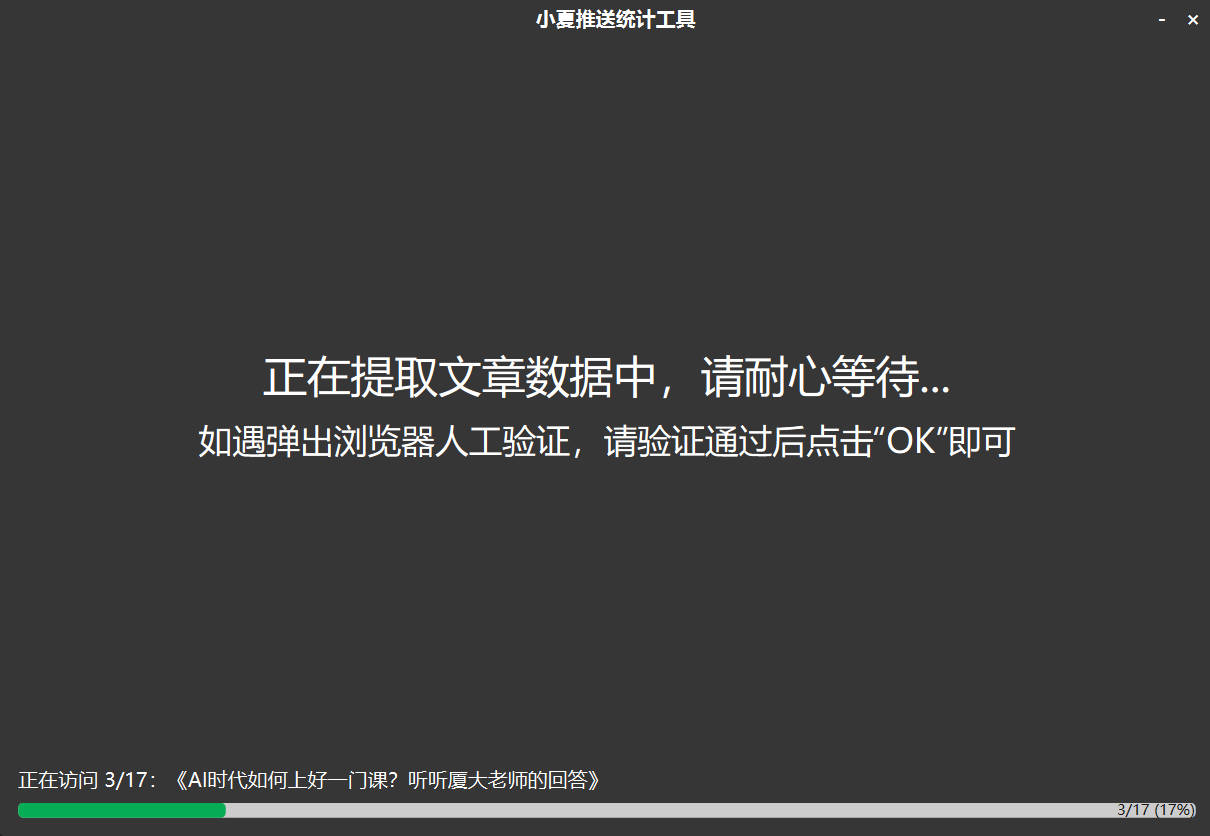
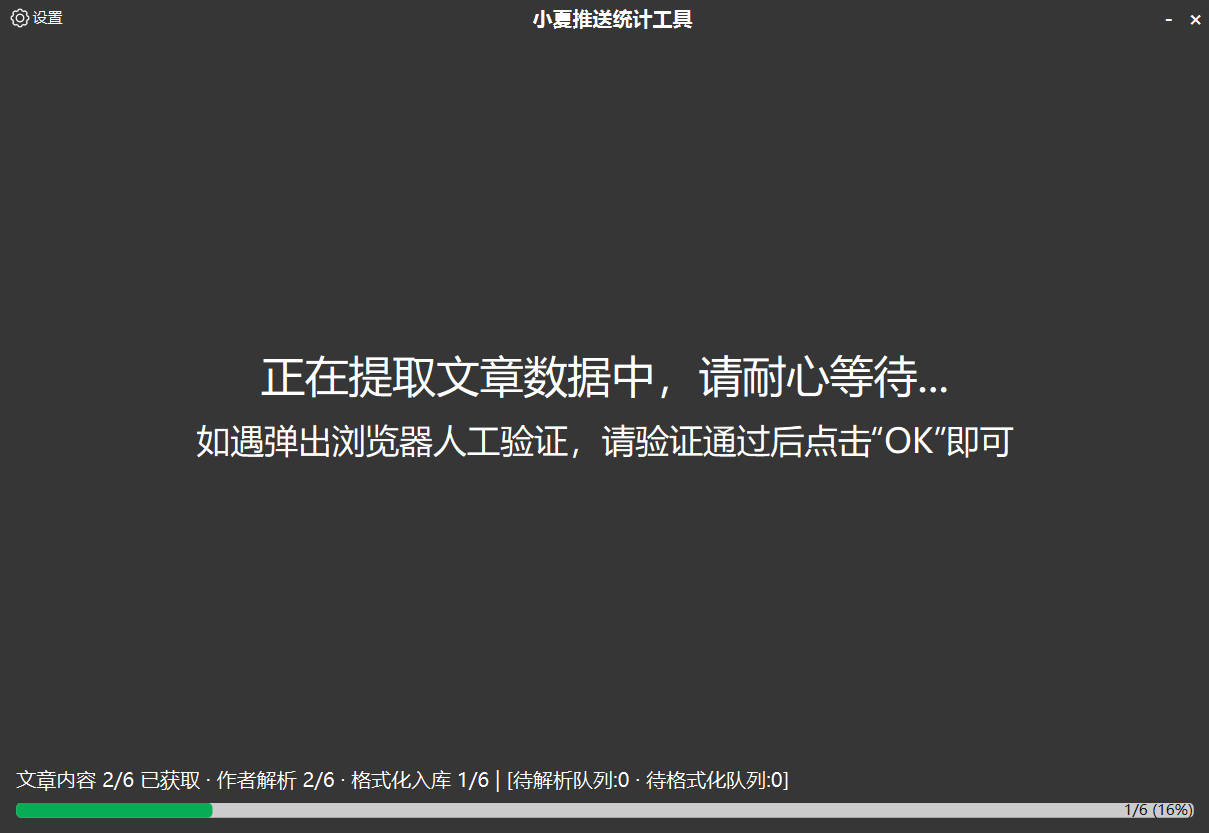
docs: 更新文档

diff --git a/build.py b/build.py
@@ -6,8 +6,8 @@ from utils.logging import get_logger
 
 logger = get_logger(__name__)
 
-FILE_VERSION = "0.2.1.0"
-PRODUCT_VERSION = "0.2.1.0"
+FILE_VERSION = "1.1.0.0"
+PRODUCT_VERSION = "1.1.0.0"
 BROWSER_DIR = ".dist\\.local-browsers=playwright\\driver\\package\\.local-browsers"
 
 def main():

diff --git a/docs/technical.md b/docs/technical.md
@@ -110,38 +110,82 @@ xiaoxia_contribution_statistic_tool/
 
 ```
 GUI (MainWindow.step_one_btn_on_click)
+  ├─► 按钮切换为"停止获取" + 置顶弹窗引导用户操作
   └─► GetMpBizThread.start()
        └─► MpBizCrawler.start()
             └─► set_network_proxy(LISTEN_HOST, LISTEN_PORT)  # 设置 Windows 全局代理
-            └─► mitmproxy DumpMaster 启动，监听 8082 端口
+            └─► _run_loop 子线程启动 asyncio 事件循环
+                 └─► mitmproxy DumpMaster 启动（0.0.0.0:8082，ssl_insecure）
+                 └─► MpBizResponseHandler 注册为 addon
+                 └─► _ready_event.set() 通知主线程初始化完成
             └─► 用户在微信客户端访问公众号，产生流量
-                 └─► MpBizResponseHandler.response()  捕获请求中的 __biz 参数
-            └─► 捕获成功后：consts.MP_BIZ = biz
-            └─► write_config({"mp_id": biz})           # 持久化到配置文件
-            └─► unset_network_proxy()                    # 关闭系统代理
-  └─► 信号 task_over(biz_result) → GUI 更新显示 + 按钮变为"下一步"
+                 └─► MpBizResponseHandler.response(flow)
+                      └─► 从 flow.request.query 中提取 "__biz"（或 "biz"）
+                      └─► self.biz_result = biz    # 保存到 handler 实例
+            └─► GetMpBizThread 轮询 get_mp_biz()，捕获到 biz 即退出循环
+            └─► finally: crawler.stop()
+                 └─► master.shutdown() 关闭 DumpMaster
+                 └─► unset_network_proxy()          # 关闭系统代理（finally 保证异常也清理）
+  └─► 信号 task_over(biz_result: str) → GUI 槽函数 get_mp_biz_task_over():
+       ├─► consts.MP_BIZ = biz_result
+       ├─► consts.ARTICLE_LIST_URL = URL_TEMPLATE.format(biz=biz_result)
+       ├─► write_config({"mp_id": biz_result})     # 持久化到配置文件
+       ├─► write_config({"uin": consts.UIN})       # 同时写入 uin
+       ├─► biz_display_label 显示 BIZ
+       ├─► reget_biz_btn.setVisible(True)
+       └─► step_one_btn 改为"下一步"，绑定 go_to_next_step 槽
 ```
 
 #### 步骤二：抓取文章列表
 
 ```
 GUI (MainWindow.step_two_btn_on_click)
+  ├─► 读取 date_edit 选择的 target_month → epoch 秒 → datetime
   └─► GetArticleListThread.start(target_time=datetime)
-       └─► ArticleListCrawler.start()
-            └─► 开启系统代理 + mitmproxy
-            └─► 用户在微信内访问历史消息页面
-                 └─► ArticleListResponseHandler 捕获分页接口 flow (action=getmsg)
-            └─► 获得模板 flow 后，跨线程调用重放：
-                 get_article_list(offset, count)
-                 └─► new_flow = template.copy()
-                 └─► new_flow.request.query["offset"] = str(offset)
-                 └─► master.commands.call("replay.client", [new_flow])
-                 └─► 解析响应 JSON → general_msg_list → list[dict]
-            └─► 循环分页：
-                 parse_and_crop_article_list(articles, target_time, offset, count)
-                 └─► 只保留目标月份内的文章
-                 └─► 解析出 title / content_url / publishing_time / type / author
-  └─► 信号 task_over(all_articles) → 弹窗确认 → 进入步骤三
+       ├─► ArticleListCrawler.start()
+       │    └─► 开启系统代理 + mitmproxy（同步骤一）
+       │    └─► ArticleListResponseHandler 注册为 addon（request 阶段钩子）
+       │    └─► 用户在微信内打开公众号"全部消息"页面
+       │         └─► 捕获 action=urlcheck 请求（重放请求用 is_replay 过滤跳过）
+       │              └─► 从 query 中保留 key / pass_ticket / appmsg_token / uin
+       │              └─► template_cookie_flow = flow.copy()
+       │
+       ├─► 轮询 has_cookie_template()：
+       │    └─► 捕获成功后 → consts.TEMPLATE_FLOW = cookie_template
+       │    └─► 信号 flow_got.emit(True) → GUI 提示用户无需继续操作
+       │
+       └─► 循环分页拉取（在 GetArticleListThread.run 内实现，而非 Crawler 内）：
+            offset=0, count=10, page_num=1
+            while count != 0:
+              ├─► sleep(FETCH_INTERVAL_S + random_jitter)   # 防风控随机间隔
+              ├─► for _ in range(MAX_RETRIES):              # 每页最多重试 MAX_RETRIES 次
+              │    └─► crawler.get_article_list(offset, count):
+              │         ├─► 从 cookie_template 提取 key / pass_ticket / appmsg_token / uin
+              │         ├─► new_flow = cookie_template.copy()   # 保留 cookie / headers
+              │         ├─► new_flow.request.path = "/mp/profile_ext"
+              │         ├─► new_flow.request.query.clear()      # 清空 urlcheck 原参数
+              │         ├─► 重新构造完整 getmsg 参数：
+              │         │    action=getmsg, __biz, f=json, offset, count,
+              │         │    is_ok=1, scene, uin, key, pass_ticket, wxtoken, appmsg_token, x5=0
+              │         ├─► new_flow.request.method = "GET"
+              │         ├─► run_async(_replay_and_wait(new_flow, timeout))
+              │         │    └─► master.commands.call("replay.client", [new_flow])
+              │         │    └─► 以 100ms 间隔轮询 new_flow.response 填充（10s 超时）
+              │         ├─► 解析响应 JSON → general_msg_list → list[dict]
+              │         └─► 失败返回 None，触发外层重试
+              ├─► articles 为 None 则 break 跳出
+              ├─► count = len(articles)
+              ├─► offset, count = parse_and_crop_article_list(articles, target_time, offset, count):
+              │    └─► 逐篇比较 datetime.month 与 target_month：
+              │         晚于目标月 → 删除
+              │         早于目标月 → 删除 + 设置 to_stop=True（返回 0,0 终止循环）
+              │         等于目标月 → parse_article 解析出 title / content_url / publishing_time / type / author
+              │         author 为空时按 type 兜底为"小绿书"或"转载"
+              ├─► all_articles.extend(articles)
+              └─► 信号 report_index.emit(len(all_articles)) → GUI 实时显示已抓数量
+  └─► 信号 task_over(all_articles) → GUI 槽函数 get_article_list_task_over():
+       ├─► len==0 时弹窗"终止获取"，按钮回退为"开始获取"
+       └─► len>0 时弹窗确认文章数量 → 用户确认后进入步骤三
 ```
 
 #### 步骤三：文章内容爬取（含人机验证，三阶段流水线）
